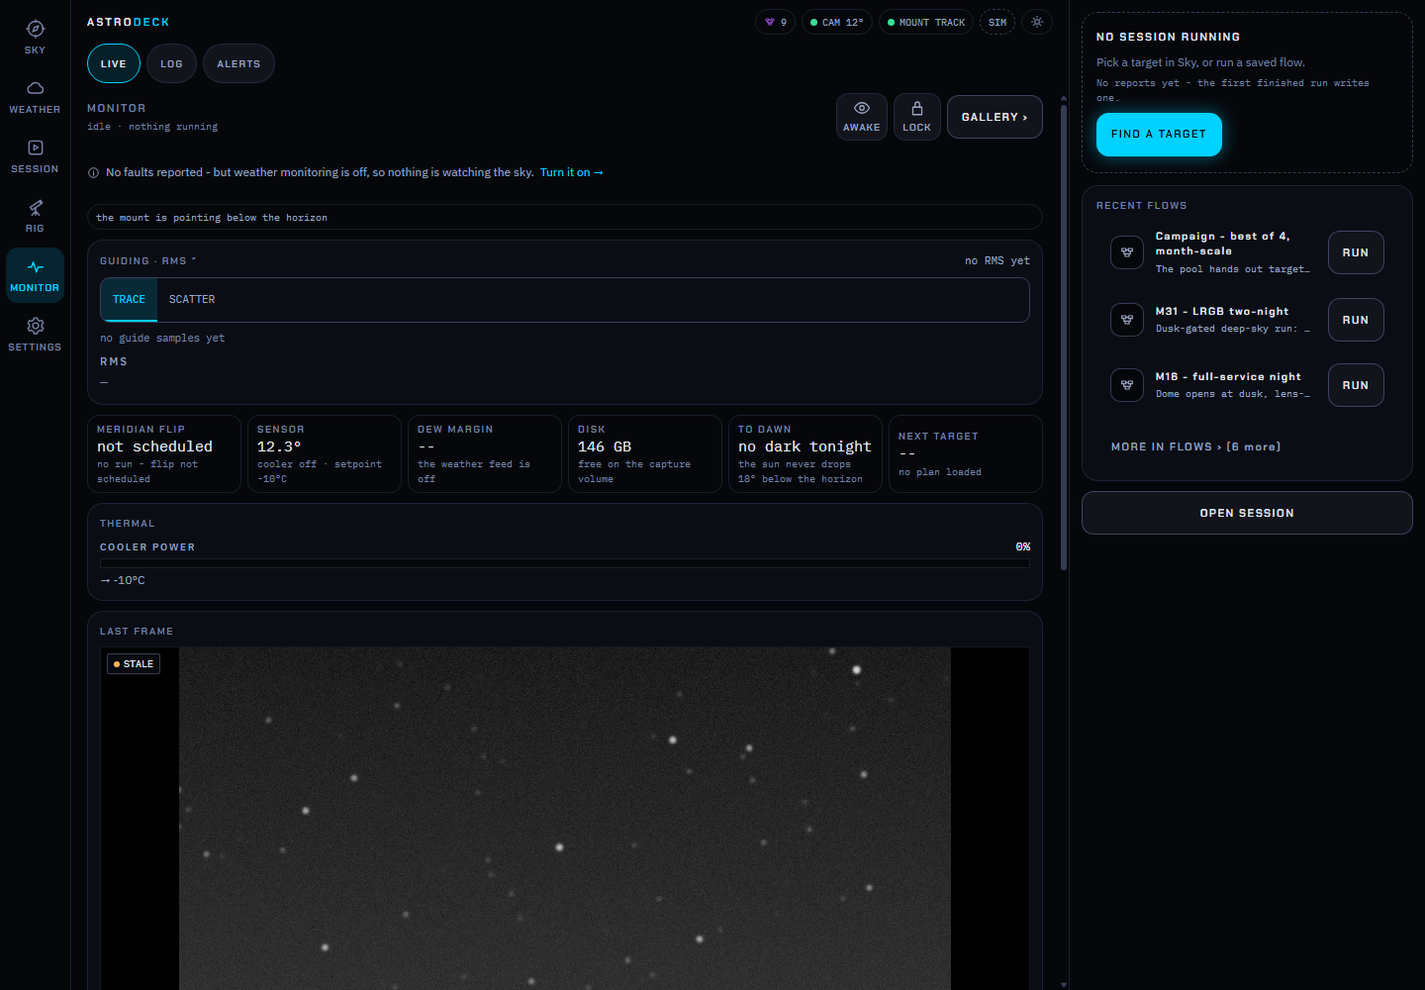
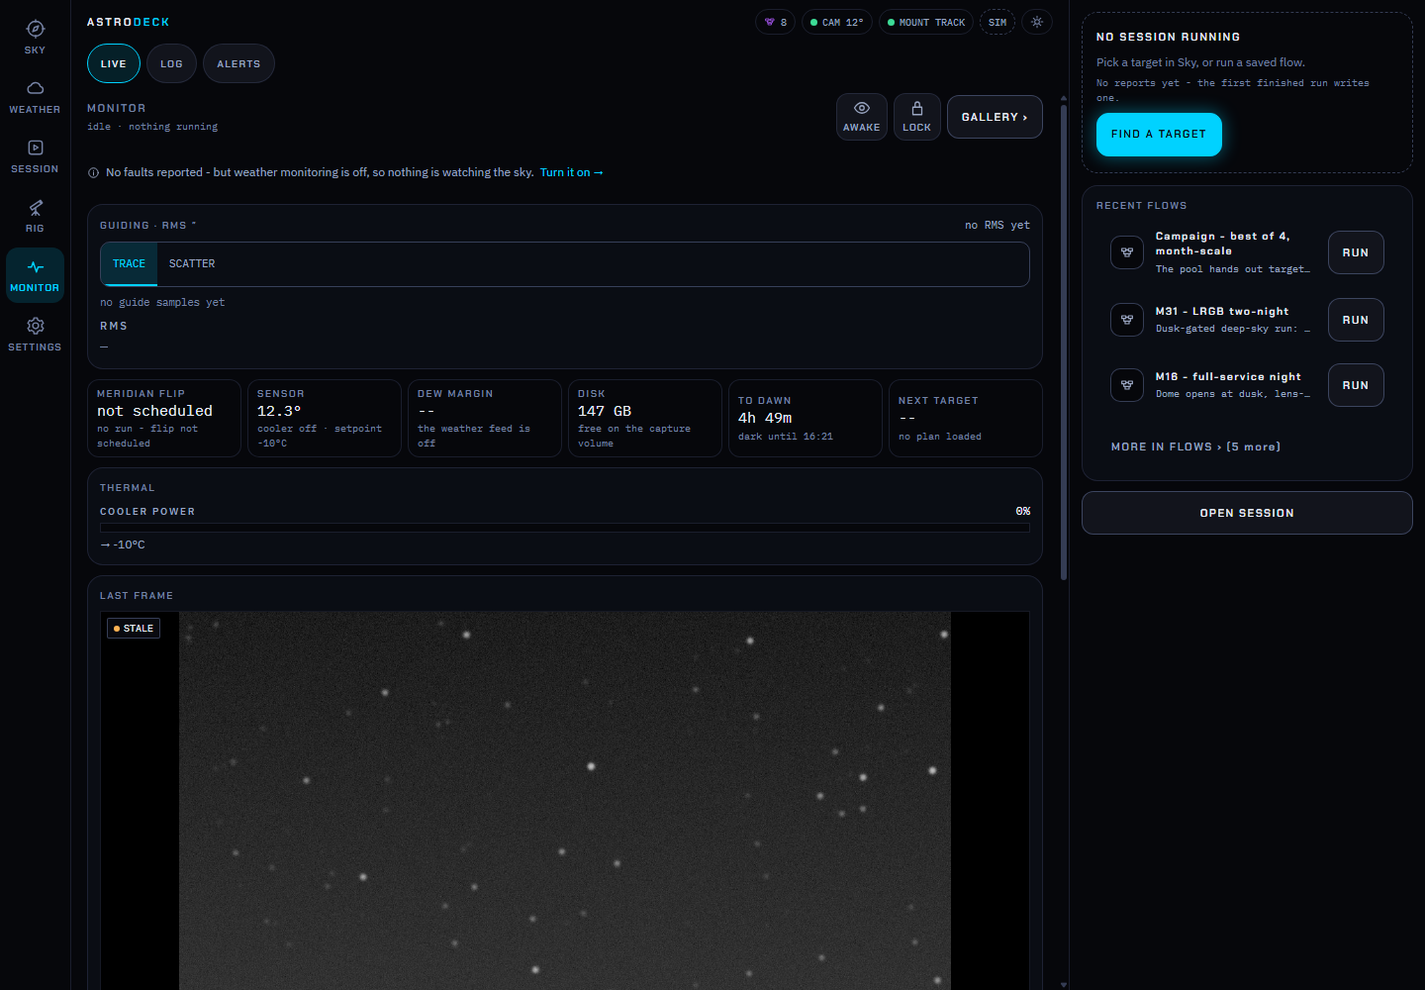
Recapture Monitor at a public midnight simulator site
Use a fresh owned Hanle simulator with an above-horizon target and one exposure. Preserve provenance and bytes for the other three screenshots. Add focused capture safeguards and regressions; 45 tests and 17 named mutants pass.

Changed region(s): [[0.0625, 0.217, 0.7188, 0.682], [0.4062, 0.372, 0.6875, 0.496], [0.6562, 0.217, 0.7188, 0.279]]

diff --git a/tools/site/capture_sim.py b/tools/site/capture_sim.py
@@ -5,6 +5,9 @@ No real rig, relay, remote address, survey layer, or saved real site is used.
 """
 from __future__ import annotations
 import argparse
+import copy
+import math
+import runpy
 import os
 import socket
 import sys
@@ -18,6 +21,116 @@ import subprocess
 
 
 ROOT = Path(__file__).resolve().parents[2]
+
+
+MONITOR_FILE = "monitor-desktop-light.png"
+PUBLIC_SITE = {"name": "Synthetic public Siding Spring", "latitude": -31.27,
+               "longitude": 149.06, "elevation_m": 0.0}
+PUBLIC_SCENARIOS = {
+    "siding-spring": (PUBLIC_SITE, -45.0),
+    "hanle": ({"name": "Synthetic public Hanle Indian Astronomical Observatory",
+               "latitude": 32.78, "longitude": 78.96, "elevation_m": 0.0}, 20.0),
+}
+CAPTURE_PLAN = [
+    ("flows-desktop-dark.png", "/session/flows", 1440, 1000, "dark"),
+    ("equipment-phone-light.png", "/rig/devices", 390, 844, "light"),
+    ("equipment-phone-night.png", "/rig/devices", 390, 844, "dark"),
+    (MONITOR_FILE, "/monitor/live", 1440, 1000, "light"),
+]
+
+
+def capture_plan(monitor_only: bool, synthetic_site: str | None):
+    if bool(synthetic_site) != monitor_only or synthetic_site not in {None, *PUBLIC_SCENARIOS}:
+        raise ValueError("Monitor-only capture requires a supported public synthetic scenario")
+    return [item for item in CAPTURE_PLAN if item[0] == MONITOR_FILE] if monitor_only else list(CAPTURE_PLAN)
+
+
+def require_simulator(status: dict):
+    # The legacy connect_sim path leaves Device.backend empty. These are
+    # consistency checks after fresh-process ownership, not authority on their own.
+    devices = status.get("connected", {})
+    expected = {"camera": "Sim Camera 533MM", "telescope": "Sim Mount EQ6-R"}
+    if (status.get("mode") != "sim"
+            or any(not devices.get(role, {}).get("connected")
+                   or devices.get(role, {}).get("name") != name for role, name in expected.items())
+            or any(item.get("connected") and (item.get("backend") not in {"", "sim"}
+                   or item.get("host") or item.get("port") not in {None, 0}) for item in devices.values())):
+        raise ValueError("Capture requires connected simulator devices only")
+    return status
+
+
+def simulator_status(request):
+    response = request.get("/api/status")
+    if not response.ok:
+        raise ValueError("Simulator status request failed")
+    return require_simulator(response.json())
+
+
+def synthetic_target(unix_time: float, synthetic_site: str = "siding-spring"):
+    site, declination = PUBLIC_SCENARIOS[synthetic_site]
+    # Load the repository's stdlib-only coordinate module, without app/config imports.
+    coords = runpy.run_path(str(ROOT / "server/astrodeck/catalog/coords.py"))
+    return {"ra_hours": (coords["lst_hours"](site["longitude"], unix_time) + 1.0) % 24,
+            "dec_deg": declination, "center": False, "force": False}
+
+
+def above_horizon_target(status: dict, target: dict):
+    mount = status.get("mount", {})
+    try:
+        altitude = float(mount["alt"])
+        ra_error = abs((float(mount["ra_hours"]) - target["ra_hours"] + 12) % 24 - 12)
+        dec_error = abs(float(mount["dec_deg"]) - target["dec_deg"])
+        # The unsynced simulator deliberately lands with 0.028 degree DEC error.
+        return (math.isfinite(altitude) and altitude > 30 and ra_error < 0.01 and dec_error < 0.1
+                and mount.get("slewing") is False and mount.get("parked") is False)
+    except (KeyError, TypeError, ValueError):
+        return False
+
+
+def seed_monitor_scenario(request, synthetic_site: str = "siding-spring"):
+    site_config, declination = PUBLIC_SCENARIOS[synthetic_site]
+    simulator_status(request)
+    response = request.put("/api/site", data={"site": site_config})
+    if not response.ok:
+        raise RuntimeError("Synthetic public site save refused")
+    status = simulator_status(request)
+    site = status.get("site", {})
+    if site.get("is_default") is not False or any(site.get(key) != value for key, value in site_config.items()):
+        raise RuntimeError("Synthetic public site was not saved")
+    target = synthetic_target(time.time(), synthetic_site)
+    response = request.post("/api/mount/goto", data=target)
+    if not response.ok:
+        raise RuntimeError("Simulator target slew refused")
+    deadline = time.monotonic() + 35
+    while time.monotonic() < deadline:
+        if above_horizon_target(simulator_status(request), target):
+            return {"id": "public-" + synthetic_site, "site": dict(site_config),
+                    "site_origin": "Fixed approximate public location used only in a fresh synthetic fixture.",
+                    "mount": f"Simulator slewed one hour east of the meridian at declination {declination:g}; settled above 30 degrees verified before capture.",
+                    "exposure_s": 1.0, "saved_frame": False}
+        time.sleep(0.25)
+    raise RuntimeError("Simulator did not settle on the above-horizon target")
+
+
+def merged_provenance(previous: dict, records: list, context: dict, monitor_only: bool):
+    # Older ledgers had global provenance. Preserve that source for untouched files.
+    inherited = {k: v for k, v in previous.items() if k not in {"captures", "schema_version", "description"}}
+    old = []
+    for item in previous.get("captures", []):
+        record = copy.deepcopy(item)
+        record.setdefault("provenance", copy.deepcopy(inherited))
+        old.append(record)
+    if monitor_only:
+        expected = {"site/assets/screenshots/" + item[0] for item in CAPTURE_PLAN}
+        if {r["file"] for r in old} != expected or len(old) != len(expected):
+            raise ValueError("Monitor-only capture requires a complete prior ledger")
+        if [r["file"] for r in records] != ["site/assets/screenshots/" + MONITOR_FILE]:
+            raise ValueError("Monitor-only capture may replace only the Monitor record")
+    fresh = {r["file"]: dict(r, provenance=copy.deepcopy(context)) for r in records}
+    combined = [fresh.pop(r["file"], r) for r in old] if monitor_only else []
+    combined.extend(fresh.values())
+    return {"schema_version": 2, "description": "Each image retains its own capture source and scenario.",
+            "captures": combined}
 
 
 def checked_config(config: Path, port: int):
@@ -122,7 +235,10 @@ def main():
     parser.add_argument("--inspect", action="store_true")
     parser.add_argument("--ui-dir", type=Path, required=True)
     parser.add_argument("--venv-python", type=Path, required=True)
+    parser.add_argument("--monitor-only", action="store_true")
+    parser.add_argument("--synthetic-site", choices=list(PUBLIC_SCENARIOS))
     args = parser.parse_args()
+    capture_plan(args.monitor_only, args.synthetic_site)
     if os.name != "nt":
         raise ValueError("Capture process ownership check currently supports Windows only")
     config, captures_dir = fresh_paths(args.config_dir, args.port)
@@ -155,26 +271,27 @@ def capture(args, config):
     base = f"http://127.0.0.1:{args.port}"
     out = ROOT / (".probe/site-screenshots" if args.inspect else "site/assets/screenshots")
     out.mkdir(parents=True, exist_ok=True)
-    captures = [
-        ("flows-desktop-dark.png", "/session/flows", 1440, 1000, "dark"),
-        ("equipment-phone-light.png", "/rig/devices", 390, 844, "light"),
-        ("equipment-phone-night.png", "/rig/devices", 390, 844, "dark"),
-        ("monitor-desktop-light.png", "/monitor/live", 1440, 1000, "light"),
-    ]
+    captures = capture_plan(args.monitor_only, args.synthetic_site)
+    ledger_path = ROOT / "tools/site/screenshot-provenance.json"
+    previous = json.loads(ledger_path.read_text(encoding="utf-8")) if ledger_path.exists() else {}
+    if args.monitor_only:
+        merged_provenance(previous, [{"file": "site/assets/screenshots/" + MONITOR_FILE}], {}, True)
+    scenario = {"id": "default-site", "site_origin": "Fresh simulator default site untouched."}
     records = []
     with sync_playwright() as pw:
         browser = pw.chromium.launch(headless=True, ignore_default_args=["--hide-scrollbars"])
         request = pw.request.new_context(base_url=base)
-        response = request.get("/api/status")
-        if not response.ok or response.json().get("mode") != "sim":
-            raise ValueError("Server did not prove simulator mode")
-        # Use the repository's synthetic M31 mosaic fixture, only saved, never run.
-        spec = json.loads((ROOT / "tools/ui_probe/routes_s5_s6.json").read_text(encoding="utf-8"))
-        seed = next(item["save_flow"] for item in spec["seed"] if "save_flow" in item)
-        flow = {"id": "site-m31-mosaic", "name": "M31 mosaic", "folder": "My flows", "graph": seed["graph"]}
-        saved = request.post("/api/flows", data={"flow": flow})
-        if not saved.ok:
-            raise RuntimeError(f"Could not save synthetic example flow: HTTP {saved.status}")
+        simulator_status(request)
+        if args.monitor_only:
+            scenario = seed_monitor_scenario(request, args.synthetic_site)
+        else:
+            # Use the synthetic M31 mosaic fixture, only saved, never run.
+            spec = json.loads((ROOT / "tools/ui_probe/routes_s5_s6.json").read_text(encoding="utf-8"))
+            seed = next(item["save_flow"] for item in spec["seed"] if "save_flow" in item)
+            flow = {"id": "site-m31-mosaic", "name": "M31 mosaic", "folder": "My flows", "graph": seed["graph"]}
+            saved = request.post("/api/flows", data={"flow": flow})
+            if not saved.ok:
+                raise RuntimeError(f"Could not save synthetic example flow: HTTP {saved.status}")
         exposure = request.post("/api/capture", data={"exposure_s": 1.0, "save": False})
         if not exposure.ok:
             raise RuntimeError(f"Simulator exposure refused: HTTP {exposure.status}")
@@ -196,6 +313,12 @@ def capture(args, config):
                 page.wait_for_timeout(900)
                 page.get_by_role('button', name='FIT', exact=True).click()
                 page.wait_for_timeout(200)
+            if args.monitor_only:
+                visible = page.locator("body").inner_text().lower()
+                if "no dark tonight" in visible or "mount is pointing below the horizon" in visible:
+                    raise RuntimeError("Monitor still shows the invalid default-site scenario")
+                if any(str(scenario["site"][key]) in visible for key in ("latitude", "longitude")):
+                    raise RuntimeError("Synthetic site coordinates appeared in the capture view")
             if args.inspect:
                 print(f"Captured preview {name}")
             path = out / name
@@ -207,16 +330,17 @@ def capture(args, config):
             context.close()
         browser.close()
     if not args.inspect:
-        ledger = {"captured_utc": datetime.now(timezone.utc).isoformat(),
-                  "source_commit": subprocess.check_output(["git", "rev-parse", "HEAD"], cwd=ROOT, text=True).strip(),
-                  "config_dir": config.relative_to(ROOT).as_posix(), "port": args.port,
-                  "launcher": "capture_sim.py owns server_ctl.py start --fresh and stop",
-                  "ownership": "New config and captures; fresh probe process tree owns loopback listener; directories never reused.",
-                  "source": "fresh local simulator; no rig or relay; default site untouched",
-                  "survey": "No Atlas/Sky survey view captured; external browser requests blocked.",
-                  "visual_review": "Pending: inspect every image before committing.",
-                  "captures": records}
-        (ROOT / "tools/site/screenshot-provenance.json").write_text(json.dumps(ledger, indent=2) + "\n", encoding="utf-8")
+        context = {"captured_utc": datetime.now(timezone.utc).isoformat(),
+                   "source_commit": subprocess.check_output(["git", "rev-parse", "HEAD"], cwd=ROOT, text=True).strip(),
+                   "config_dir": config.relative_to(ROOT).as_posix(), "port": args.port,
+                   "launcher": "capture_sim.py owns server_ctl.py start --fresh and stop",
+                   "ownership": "New config and captures; fresh probe process tree owns loopback listener; directories never reused.",
+                   "source": "Fresh local simulator; no rig or relay; scenario records the synthetic site.",
+                   "scenario": scenario,
+                   "survey": "No Atlas/Sky survey view captured; external browser requests blocked.",
+                   "visual_review": "Pending: inspect the new image before committing."}
+        ledger = merged_provenance(previous, records, context, args.monitor_only)
+        ledger_path.write_text(json.dumps(ledger, indent=2) + "\n", encoding="utf-8")
     print(f"Captured {len(records)} simulator views in {out.relative_to(ROOT)}")
 
 

diff --git a/tools/site/test_site_checks.py b/tools/site/test_site_checks.py
@@ -244,6 +244,101 @@ class CaptureLifecycle(unittest.TestCase):
                          456: {"pid":456,"parent":456,"created":11}}, 456, False)
 
 
+class MonitorCapture(unittest.TestCase):
+    def previous(self):
+        return {"captured_utc": "old-date", "source_commit": "old-source", "source": "default site untouched",
+                "captures": [{"file": "site/assets/screenshots/" + item[0], "sha256": "original-" + item[0]}
+                             for item in capture_sim.CAPTURE_PLAN]}
+
+    def test_monitor_plan_excludes_other_images(self):
+        plan = capture_sim.capture_plan(True, "siding-spring")
+        self.assertEqual(["monitor-desktop-light.png"], [item[0] for item in plan])
+
+    def test_hanle_target_is_above_horizon(self):
+        coords = capture_sim.runpy.run_path(str(capture_sim.ROOT / "server/astrodeck/catalog/coords.py"))
+        site, _ = capture_sim.PUBLIC_SCENARIOS["hanle"]
+        for timestamp in [1770000000, 1790870000]:
+            target = capture_sim.synthetic_target(timestamp, "hanle")
+            alt, _ = coords["altaz"](target["ra_hours"], target["dec_deg"],
+                                     site["latitude"], site["longitude"], timestamp)
+            self.assertGreater(alt, 60)
+            self.assertFalse(target["center"])
+            self.assertFalse(target["force"])
+        self.assertEqual([capture_sim.MONITOR_FILE], [item[0] for item in capture_sim.capture_plan(True, "hanle")])
+
+    def test_public_scenario_requires_monitor_only(self):
+        with self.assertRaises(ValueError):
+            capture_sim.capture_plan(False, "siding-spring")
+        with self.assertRaises(ValueError):
+            capture_sim.capture_plan(True, None)
+
+    def test_old_images_keep_old_provenance(self):
+        previous = self.previous()
+        original = json.loads(json.dumps(previous))
+        monitor = {"file": "site/assets/screenshots/monitor-desktop-light.png", "sha256": "new-image"}
+        context = {"captured_utc": "new-date", "source_commit": "new-source", "scenario": "synthetic"}
+        result = capture_sim.merged_provenance(previous, [monitor], context, True)
+        self.assertEqual(original, previous)
+        self.assertNotIn("source_commit", result)
+        for old, new in zip(previous["captures"], result["captures"]):
+            if old["file"] == monitor["file"]:
+                self.assertEqual("new-image", new["sha256"])
+                self.assertEqual(context, new["provenance"])
+            else:
+                self.assertEqual(old["sha256"], new["sha256"])
+                self.assertEqual("old-source", new["provenance"]["source_commit"])
+                self.assertEqual("default site untouched", new["provenance"]["source"])
+
+    def test_monitor_cannot_replace_equipment_record(self):
+        other = {"file": "site/assets/screenshots/equipment-phone-light.png"}
+        with self.assertRaises(ValueError):
+            capture_sim.merged_provenance(self.previous(), [other], {}, True)
+
+    def test_monitor_refuses_incomplete_previous_ledger(self):
+        with self.assertRaises(ValueError):
+            capture_sim.merged_provenance({}, [{"file": "site/assets/screenshots/monitor-desktop-light.png"}], {}, True)
+
+    def test_mixed_backend_is_not_simulator_proof(self):
+        status = {"mode": "sim", "connected": {"camera": {"name": "Sim Camera 533MM", "connected": True, "backend": "sim"},
+                  "telescope": {"name": "Sim Mount EQ6-R", "connected": True, "backend": "alpaca"}}}
+        with self.assertRaisesRegex(ValueError, "simulator devices"):
+            capture_sim.require_simulator(status)
+
+    def test_legacy_sim_descriptions_have_empty_backend(self):
+        status = {"mode": "sim", "connected": {"camera": {"name": "Sim Camera 533MM", "connected": True, "backend": "", "host": "", "port": 0},
+                  "telescope": {"name": "Sim Mount EQ6-R", "connected": True, "backend": "", "host": "", "port": 0}}}
+        self.assertIs(status, capture_sim.require_simulator(status))
+        status["connected"]["camera"]["host"] = "example.invalid"
+        with self.assertRaises(ValueError):
+            capture_sim.require_simulator(status)
+
+    def test_below_horizon_is_not_capture_ready(self):
+        target = {"ra_hours": 4, "dec_deg": -45}
+        status = {"mount": {"ra_hours": 4, "dec_deg": -45, "alt": -5,
+                             "slewing": False, "parked": False}}
+        self.assertFalse(capture_sim.above_horizon_target(status, target))
+        status["mount"]["alt"] = float("nan")
+        self.assertFalse(capture_sim.above_horizon_target(status, target))
+
+    def test_unsynced_sim_pointing_error_is_capture_ready(self):
+        target = {"ra_hours": 4, "dec_deg": -45}
+        status = {"mount": {"ra_hours": 4.002, "dec_deg": -44.972, "alt": 70,
+                             "slewing": False, "parked": False}}
+        self.assertTrue(capture_sim.above_horizon_target(status, target))
+        status["mount"]["slewing"] = True
+        self.assertFalse(capture_sim.above_horizon_target(status, target))
+
+    def test_target_is_above_horizon_at_different_times(self):
+        coords = capture_sim.runpy.run_path(str(capture_sim.ROOT / "server/astrodeck/catalog/coords.py"))
+        for timestamp in [1770000000, 1790870000]:
+            target = capture_sim.synthetic_target(timestamp)
+            alt, _ = coords["altaz"](target["ra_hours"], target["dec_deg"],
+                                     capture_sim.PUBLIC_SITE["latitude"], capture_sim.PUBLIC_SITE["longitude"], timestamp)
+            self.assertGreater(alt, 60)
+            self.assertFalse(target["center"])
+            self.assertFalse(target["force"])
+
+
 class WorkflowChecks(unittest.TestCase):
     def test_javascript_syntax_failure_stops_step(self):
         workflow = (Path(__file__).resolve().parents[2] / ".github/workflows/pages.yml").read_text(encoding="utf-8")

diff --git a/tools/site/mutate_checks.py b/tools/site/mutate_checks.py
@@ -21,6 +21,13 @@ MUTANTS = [
     ("PARENT-PID-REUSE", "capture_sim.py", 'if info is None or info["created"] > child_created:', "if info is None:", "CaptureLifecycle.test_refuses_parent_pid_reuse"),
     ("JS-EXIT", "../../.github/workflows/pages.yml", 'node --check "$file" || exit 1', 'node --check "$file" || true', "WorkflowChecks.test_javascript_syntax_failure_stops_step"),
 
+    ("MONITOR-ONLY-PLAN", "capture_sim.py", '[item for item in CAPTURE_PLAN if item[0] == MONITOR_FILE] if monitor_only else list(CAPTURE_PLAN)', 'list(CAPTURE_PLAN)', "MonitorCapture.test_monitor_plan_excludes_other_images"),
+    ("CAPTURE-PROVENANCE", "capture_sim.py", 'record.setdefault("provenance", copy.deepcopy(inherited))', 'record.setdefault("provenance", copy.deepcopy(context))', "MonitorCapture.test_old_images_keep_old_provenance"),
+    ("ABOVE-HORIZON", "capture_sim.py", 'math.isfinite(altitude) and altitude > 30', 'math.isfinite(altitude)', "MonitorCapture.test_below_horizon_is_not_capture_ready"),
+
+    ("HANLE-DECLINATION", "capture_sim.py", '"elevation_m": 0.0}, 20.0)', '"elevation_m": 0.0}, -45.0)', "MonitorCapture.test_hanle_target_is_above_horizon"),
+
+
 ]
 
 

diff --git a/tools/site/monitor-followup.md b/tools/site/monitor-followup.md
@@ -1,0 +1,23 @@
+# Monitor screenshot follow-up
+
[1 lines of base64/hex data omitted]
+
+The capture helper accepts `--monitor-only --synthetic-site hanle` (the earlier Siding Spring scenario remains available). Monitor-only mode requires a complete prior ledger and cannot replace an equipment or Flows record. The schema-2 ledger stores provenance per image. Existing fresh-directory, process identity, listener ancestry, loopback-only and final cleanup checks remain intact.
+
+The scenario saves the fixed approximate public Hanle Indian Astronomical Observatory location in a never-used isolated simulator config. It verifies the saved site, commands a plain simulated slew one hour east of the meridian at declination +20 with `center=false` and `force=false`, and waits until the mount is settled, unparked, near the target and above 30 degrees. It takes one unsaved 1-second simulator exposure. The capture checks visible text for the unwanted warning and coordinate strings before writing the PNG. No application source, DOM content or screenshot pixels were edited to manufacture the state.
+
+Successful final run: `.probe/site-monitor-followup/sim-hanle`, loopback port 8878, captured 2026-10-01 18:31:37 UTC. The owned server stopped in the finalizer; the listener count is zero and `server.pid` was removed. Logs and generated config/captures remain in ignored private scratch. The shared Python environment stayed read-only. Playwright/test dependencies and Chromium live only under `.probe/site-monitor-followup`; the UI was built from this site checkout using existing npm dependencies through a junction and Vite's runner config loader.
+
+Original-resolution pixel review found no site label/coordinates, numerical mount coordinates or Atlas/survey imagery. The below-horizon warning and `no dark tonight` message are absent. To Dawn now reads `4h 49m`, with `dark until 16:21` in browser time. The page honestly remains idle, weather monitoring off, with a single stale simulator frame. The parent independently inspected the final pixels and confirmed the sensible countdown, absence of site/mount coordinates or warnings, and authentic idle state.
+
+The earlier Siding Spring attempt was superseded at Claude's request because it showed the next-window presentation defect tracked as #640. Its PNG is not shipped. Earlier refused attempts and the Siding Spring run each used separate new directories and stopped their owned server. Simulator identity checks allow the legacy empty backend description only with exact simulator device names and no remote host/port; process ownership plus explicit simulator startup remain the authority. The readiness threshold accommodates the simulator's documented small unsynced pointing error while refusing slewing, parked, distant or below-horizon states.
+
+Validation: 45 focused tests pass. Seventeen named mutants are killed and each edited source restored exactly, including Hanle's hemisphere-specific target declination, monitor-only selection, provenance retention and above-horizon readiness. Assertions are recorded in `mutation-evidence.md`. All four ledger hashes match the image bytes; the other three PNGs match HEAD exactly. The HTML/link/style/privacy gate passes all seven pages, changed tooling/provenance passes the private-value scan, and `git diff --check` is clean. No commit or publication was performed.
+
+Reproduction from a fresh directory:
+
+```text
+python tools/site/capture_sim.py --config-dir .probe/<new-directory> --port 8878 --ui-dir ui/dist --venv-python <existing-server-python> --monitor-only --synthetic-site hanle
+```
+
+Set `PYTHONPATH` to the private test/Playwright dependencies and `PLAYWRIGHT_BROWSERS_PATH` to the private browser cache. Never reuse a completed probe directory. Use this scenario while Hanle is actually dark; inspect the resulting dawn value and drop the figure if the app presents an unsuitable window. The helper does not alter the app clock.

diff --git a/tools/site/mutation-evidence.md b/tools/site/mutation-evidence.md
@@ -28,5 +28,13 @@ Each source file was restored from its byte backup in a finally block.
   Test: `CaptureLifecycle.test_refuses_parent_pid_reuse`.
 - JS-EXIT: `AssertionError: 0 == 0`
   Test: `WorkflowChecks.test_javascript_syntax_failure_stops_step`.
+- MONITOR-ONLY-PLAN: `AssertionError: Lists differ: ['monitor-desktop-light.png'] != ['flows-desktop-dark.png', 'equipment-phone[65 chars]png']`
+  Test: `MonitorCapture.test_monitor_plan_excludes_other_images`.
+- CAPTURE-PROVENANCE: `AssertionError: 'old-source' != 'new-source'`
+  Test: `MonitorCapture.test_old_images_keep_old_provenance`.
+- ABOVE-HORIZON: `AssertionError: True is not false`
+  Test: `MonitorCapture.test_below_horizon_is_not_capture_ready`.
+- HANLE-DECLINATION: `AssertionError: 11.035007662661501 not greater than 60`
+  Test: `MonitorCapture.test_hanle_target_is_above_horizon`.
 
-Unmutated suite: 34 tests passed. No mutant source remains.
+Unmutated suite: 45 tests passed. No mutant source remains.
